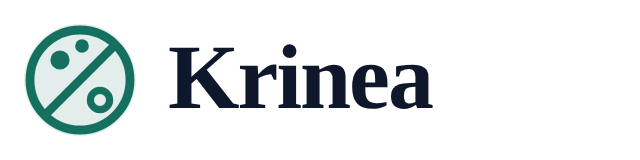
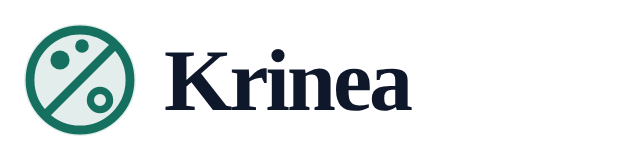
One sans-serif family for headings and body; wider application layout on large screens
- Inter for headings too (bold, tighter tracking); Source Serif dropped;
  brand images and wordmark regenerated accordingly (decision D-27)
- application shell, review workspace and screening columns use up to
  1 600 px from 1 536 px wide, matching the marketing pages

Changed region(s): [[0.25, 0.2812, 0.6875, 0.7188]]

diff --git a/apps/web/src/app/[locale]/app/reviews/[id]/layout.tsx b/apps/web/src/app/[locale]/app/reviews/[id]/layout.tsx
@@ -13,7 +13,7 @@ export default function ReviewLayout({ children, params }: { children: React.Rea
   const t = useTranslations("review.tabs");
   const pathname = usePathname();
   const { data: review, isLoading, error } = useReviewQuery(id);
-  if (isLoading) return <div className="mx-auto max-w-7xl p-6"><Skeleton className="h-9 w-80" /><Skeleton className="mt-6 h-64" /></div>;
+  if (isLoading) return <div className="mx-auto max-w-7xl 2xl:max-w-[1600px] p-6"><Skeleton className="h-9 w-80" /><Skeleton className="mt-6 h-64" /></div>;
   if (error || !review) return <div className="p-10 text-center text-exclude">{String(error ?? "Not found")}</div>;
   const s = review.counts;
   const base = `/app/reviews/${id}`;
@@ -29,7 +29,7 @@ export default function ReviewLayout({ children, params }: { children: React.Rea
   return (
     <ReviewProvider review={review}>
       <div className="border-b border-border bg-card">
-        <div className="mx-auto max-w-7xl px-4 pt-5 sm:px-6">
+        <div className="mx-auto max-w-7xl 2xl:max-w-[1600px] px-4 pt-5 sm:px-6">
           <div className="flex flex-wrap items-baseline justify-between gap-2">
             <h1 className="font-display text-2xl font-semibold tracking-tight">{review.title}</h1>
             <span className="text-xs text-muted-foreground">{review.review_type}</span>
@@ -47,7 +47,7 @@ export default function ReviewLayout({ children, params }: { children: React.Rea
           </nav>
         </div>
       </div>
-      <div className="mx-auto max-w-7xl px-4 py-6 sm:px-6">{children}</div>
+      <div className="mx-auto max-w-7xl 2xl:max-w-[1600px] px-4 py-6 sm:px-6">{children}</div>
     </ReviewProvider>
   );
 }

diff --git a/apps/web/src/app/[locale]/(marketing)/page.tsx b/apps/web/src/app/[locale]/(marketing)/page.tsx
@@ -60,7 +60,7 @@ function Landing() {
         <div className="relative mx-auto grid max-w-6xl 2xl:max-w-[1400px] gap-10 px-4 py-12 sm:px-6 md:py-16 lg:grid-cols-2 lg:items-center lg:gap-12 xl:gap-16 2xl:py-20">
           <div className="max-w-xl 2xl:max-w-2xl">
             <p className="mb-4 inline-flex items-center gap-2 rounded-full border border-brand-200 bg-brand-50 px-3 py-1 text-xs font-medium text-brand-900 dark:border-brand-800 dark:bg-brand-950 dark:text-brand-100">{t("heroEyebrow")}</p>
-            <h1 className="font-display text-balance text-4xl font-semibold leading-[1.05] tracking-tight sm:text-5xl xl:text-[3.5rem] 2xl:text-[4.25rem]">{t("heroTitle")}</h1>
+            <h1 className="font-display text-balance text-4xl font-bold leading-[1.08] tracking-tight sm:text-5xl xl:text-[3.25rem] 2xl:text-[3.75rem]">{t("heroTitle")}</h1>
             <p className="mt-5 max-w-lg text-balance text-base text-muted-foreground md:text-lg 2xl:max-w-xl 2xl:text-xl">{t("heroText")}</p>
             <div className="mt-7 flex flex-col gap-3 sm:flex-row">
               <Button size="lg" className="w-full sm:w-auto" asChild><Link href="/sign-up">{t("ctaPrimary")}<ArrowRight /></Link></Button>

diff --git a/apps/web/src/app/globals.css b/apps/web/src/app/globals.css
@@ -1,6 +1,5 @@
 @import "tailwindcss";
 @import "@fontsource-variable/inter";
-@import "@fontsource-variable/source-serif-4";
 
 @custom-variant dark (&:where(.dark, .dark *));
 
@@ -70,7 +69,7 @@
   --color-conflict: var(--conflict); --color-conflict-bg: var(--conflict-bg);
   --color-pending: var(--pending); --color-pending-bg: var(--pending-bg);
   --font-sans: "Inter Variable", ui-sans-serif, system-ui, -apple-system, "Segoe UI", Roboto, sans-serif;
-  --font-display: "Source Serif 4 Variable", Georgia, "Times New Roman", serif;
+  --font-display: "Inter Variable", ui-sans-serif, system-ui, -apple-system, "Segoe UI", Roboto, sans-serif;
   --radius-sm: calc(var(--radius) - 4px);
   --radius-md: calc(var(--radius) - 2px);
   --radius-lg: var(--radius);
@@ -91,7 +90,7 @@
 }
 
 @layer utilities {
-  .font-display { font-family: var(--font-display); }
+  .font-display { font-family: var(--font-display); letter-spacing: -0.02em; }
   /* Faint grid behind a section. Drawn on a pseudo-element so the fade-out mask never
      touches the section's own content. */
   .mesh-bg { position: relative; isolation: isolate; }

diff --git a/apps/web/src/components/app/app-shell.tsx b/apps/web/src/components/app/app-shell.tsx
@@ -23,13 +23,13 @@ export function AppShell({ children }: { children: React.ReactNode }) {
 
   if (isLoading || !me) {
     return (
-      <div className="mx-auto max-w-6xl p-6"><Skeleton className="h-8 w-48" /><Skeleton className="mt-6 h-40 w-full" /></div>
+      <div className="mx-auto max-w-7xl 2xl:max-w-[1600px] p-6"><Skeleton className="h-8 w-48" /><Skeleton className="mt-6 h-40 w-full" /></div>
     );
   }
   return (
     <div className="flex min-h-screen flex-col">
       <header className="sticky top-0 z-40 border-b border-border bg-card/90 backdrop-blur">
-        <div className="mx-auto flex h-14 max-w-7xl items-center justify-between px-4 sm:px-6">
+        <div className="mx-auto flex h-14 max-w-7xl 2xl:max-w-[1600px] items-center justify-between px-4 sm:px-6">
           <div className="flex items-center gap-6">
             <Link href="/app"><KrineaWordmark size={24} /></Link>
             <nav className="hidden items-center gap-1 text-sm md:flex">

diff --git a/apps/web/src/app/[locale]/app/page.tsx b/apps/web/src/app/[locale]/app/page.tsx
@@ -16,7 +16,7 @@ export default function ReviewsPage() {
   const locale = useLocale();
   const { data, isLoading } = useQuery<ReviewSummary[]>({ queryKey: ["reviews"], queryFn: () => api.get("/reviews") });
   return (
-    <div className="mx-auto max-w-7xl px-4 py-8 sm:px-6">
+    <div className="mx-auto max-w-7xl 2xl:max-w-[1600px] px-4 py-8 sm:px-6">
       <PageHeader title={t("title")} actions={<Button asChild><Link href="/app/reviews/new"><Plus />{t("new")}</Link></Button>} />
       {isLoading ? (
         <div className="grid gap-4 md:grid-cols-2 lg:grid-cols-3">{[0, 1, 2].map((i) => <Skeleton key={i} className="h-40" />)}</div>

diff --git a/apps/web/src/components/app/screening-workbench.tsx b/apps/web/src/components/app/screening-workbench.tsx
@@ -121,7 +121,7 @@ export function ScreeningWorkbench({ stage }: { stage: Stage }) {
   const fileInput = useRef<HTMLInputElement>(null);
 
   return (
-    <div className="grid gap-5 lg:grid-cols-[280px_minmax(0,1fr)_240px]">
+    <div className="grid gap-5 lg:grid-cols-[280px_minmax(0,1fr)_240px] 2xl:grid-cols-[320px_minmax(0,1fr)_280px]">
       {/* Queue */}
       <aside className="flex max-h-[calc(100vh-14rem)] flex-col rounded-xl border border-border bg-card">
         <div className="space-y-2 border-b border-border p-3">

diff --git a/apps/web/src/components/brand/logo.tsx b/apps/web/src/components/brand/logo.tsx
@@ -19,7 +19,7 @@ export function KrineaWordmark({ className, size = 28 }: { className?: string; s
   return (
     <span className={cn("inline-flex items-center gap-2 text-brand-700 dark:text-brand-300", className)}>
       <KrineaMark size={size} />
-      <span className="font-display text-[1.35em] font-semibold tracking-tight text-foreground">Krinea</span>
+      <span className="font-display text-[1.3em] font-bold tracking-tight text-foreground">Krinea</span>
     </span>
   );
 }

diff --git a/docs/decisions.md b/docs/decisions.md
@@ -459,6 +459,22 @@ renamed by the owner (old URLs redirect); Render services to be renamed in the
 dashboard before the next blueprint sync; the first citation of the software must use
 the new name.
 
+## D-27 · 2026-10-09 · decided · One sans-serif family; wide-screen layouts
+
+**Decision.** Headings use the same family as the body (Inter), bold, with tighter
+letter-spacing; the serif display face of D-18 is dropped. The marketing container
+grows to 1 400 px from 1 536 px wide, the application to 1 600 px; the screening
+workbench's side columns widen on those screens.
+
+**Why.** Founder feedback on the live site: the serif headlines read as a template
+rather than as the research tools people already use, and on a 1 900 px screen the
+1 150 px column left too much empty space, in the application as well as on the
+marketing pages.
+
+**Consequences.** Brand images regenerated in the sans-serif; `font-display` remains as
+a class so no markup changed. Readability keeps a line length under about 80 characters
+in text columns (prose pages stay at 768 px).
+
 ### P-09 · Legal vehicle operating the hosted service
 
 Open-source publication needs no legal entity. Taking payments does. Options
